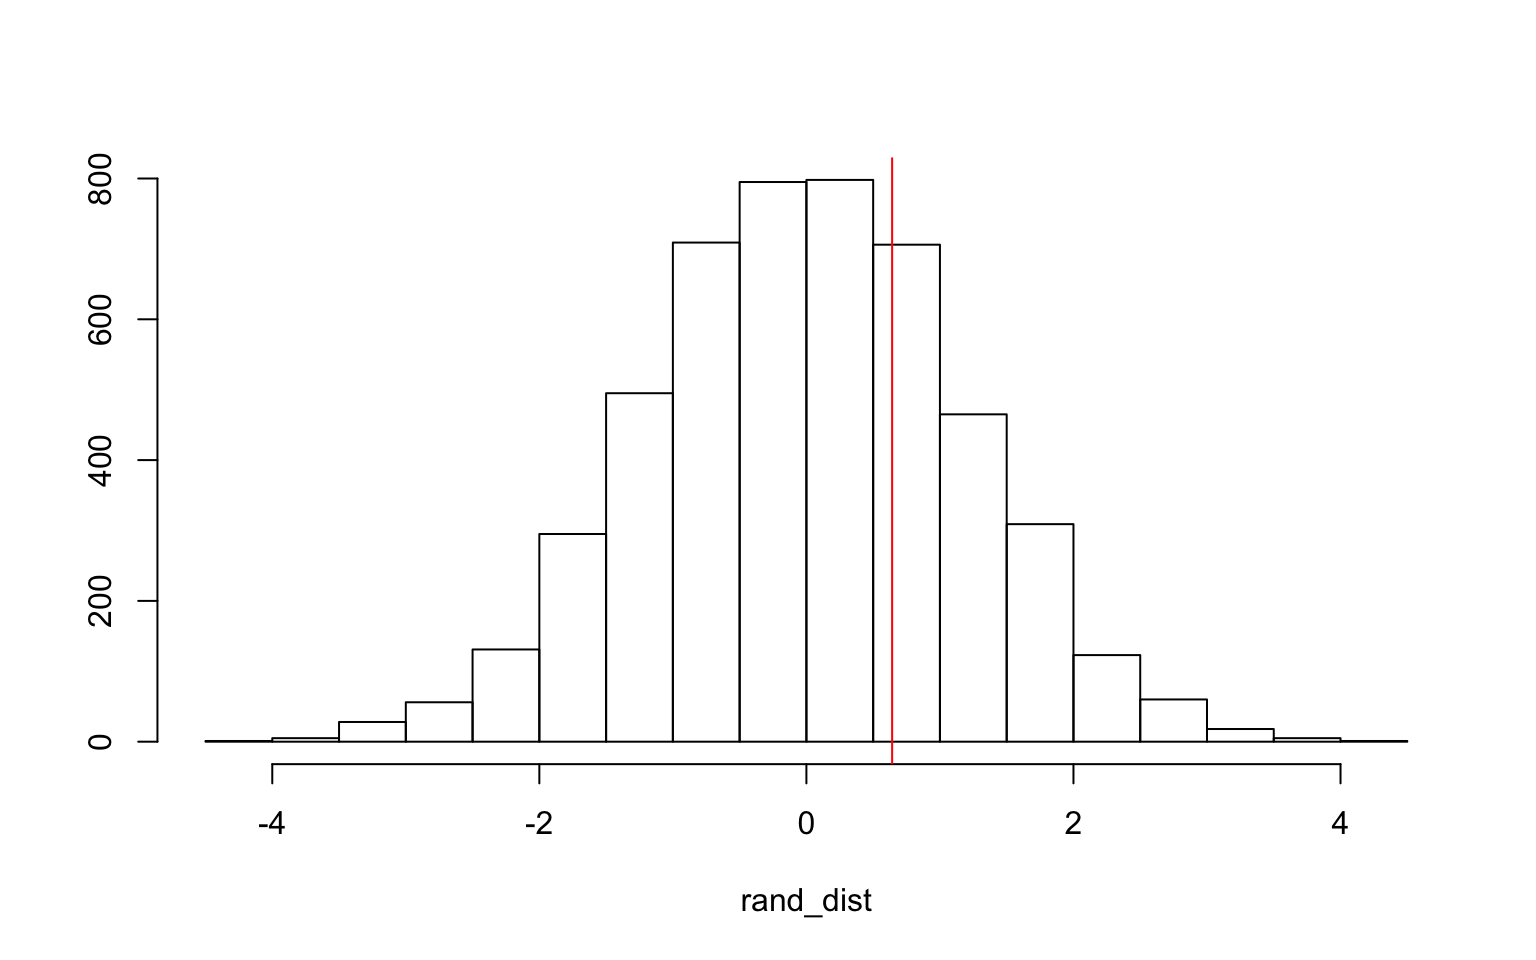
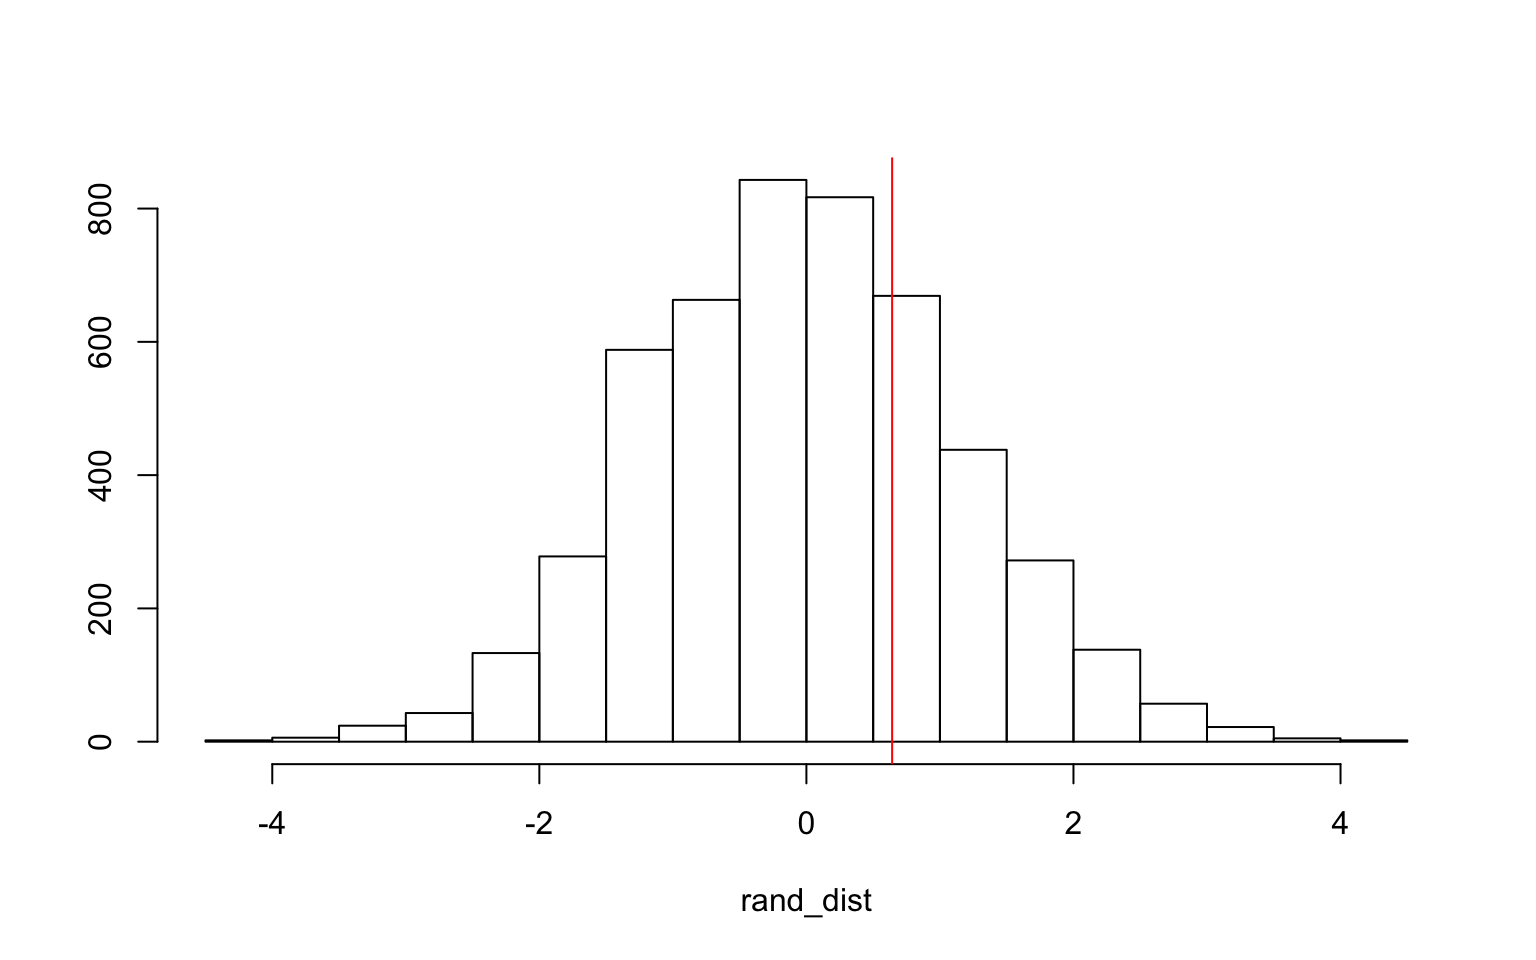
some message

diff --git a/content/project2.html b/content/project2.html
@@ -2,6 +2,7 @@
 output:
   pdf_document: default
   html_document: default
+  showpagemeta: false
 ---
 
 
@@ -148,7 +149,7 @@ mean(new[new$pros.eet==1,]$pros.age)}
 {hist(rand_dist,main=&quot;&quot;,ylab=&quot;&quot;); abline(v = 0.642,col=&quot;red&quot;)}</code></pre>
 <p><img src="/project2_files/figure-html/unnamed-chunk-2-1.png" width="768" style="display: block; margin: auto;" /></p>
 <pre class="r"><code>mean(rand_dist&gt;0.642)*2</code></pre>
-<pre><code>## [1] 0.5968</code></pre>
+<pre><code>## [1] 0.568</code></pre>
 <p>I performed a randomization test on my two variables, age and eet. The null hypothesis was that mean age is the same for people both having early endocrine therapy (eet), and not having it. The alternative hypothesis was that mean age is different for people having eet and not having eet. I found that the true mean difference between the two means was around 0.642. I then computed a p-value on the randomization distribution, which corresponds to the probability of observing a mean difference as extreme as the original data mean difference. I obtained a p-value of 0.586. Since this number is not less than 0.05, the null hypothesis was accepted, meaning that mean age is the same for people both having eet and not having eet. In the plot to visualize the null distribution and the test statistic, I found that my test statistic layed slightly to the right of the middle of the null distribution, but only by a small amount.</p>
 </div>
 <div id="section-3" class="section level3">

diff --git a/public/project2/index.html b/public/project2/index.html
@@ -214,7 +214,7 @@ mean(new[new$pros.eet==1,]$pros.age)}
 {hist(rand_dist,main=&quot;&quot;,ylab=&quot;&quot;); abline(v = 0.642,col=&quot;red&quot;)}</code></pre>
 <p><img src="/project2_files/figure-html/unnamed-chunk-2-1.png" width="768" style="display: block; margin: auto;" /></p>
 <pre class="r"><code>mean(rand_dist&gt;0.642)*2</code></pre>
-<pre><code>## [1] 0.5968</code></pre>
+<pre><code>## [1] 0.568</code></pre>
 <p>I performed a randomization test on my two variables, age and eet. The null hypothesis was that mean age is the same for people both having early endocrine therapy (eet), and not having it. The alternative hypothesis was that mean age is different for people having eet and not having eet. I found that the true mean difference between the two means was around 0.642. I then computed a p-value on the randomization distribution, which corresponds to the probability of observing a mean difference as extreme as the original data mean difference. I obtained a p-value of 0.586. Since this number is not less than 0.05, the null hypothesis was accepted, meaning that mean age is the same for people both having eet and not having eet. In the plot to visualize the null distribution and the test statistic, I found that my test statistic layed slightly to the right of the middle of the null distribution, but only by a small amount.</p>
 </div>
 <div id="section-3" class="section level3">

diff --git a/content/project1.html b/content/project1.html
@@ -2,6 +2,7 @@
 output:
   pdf_document: default
   html_document: default
+  showpagemeta: false
 ---
 
 
